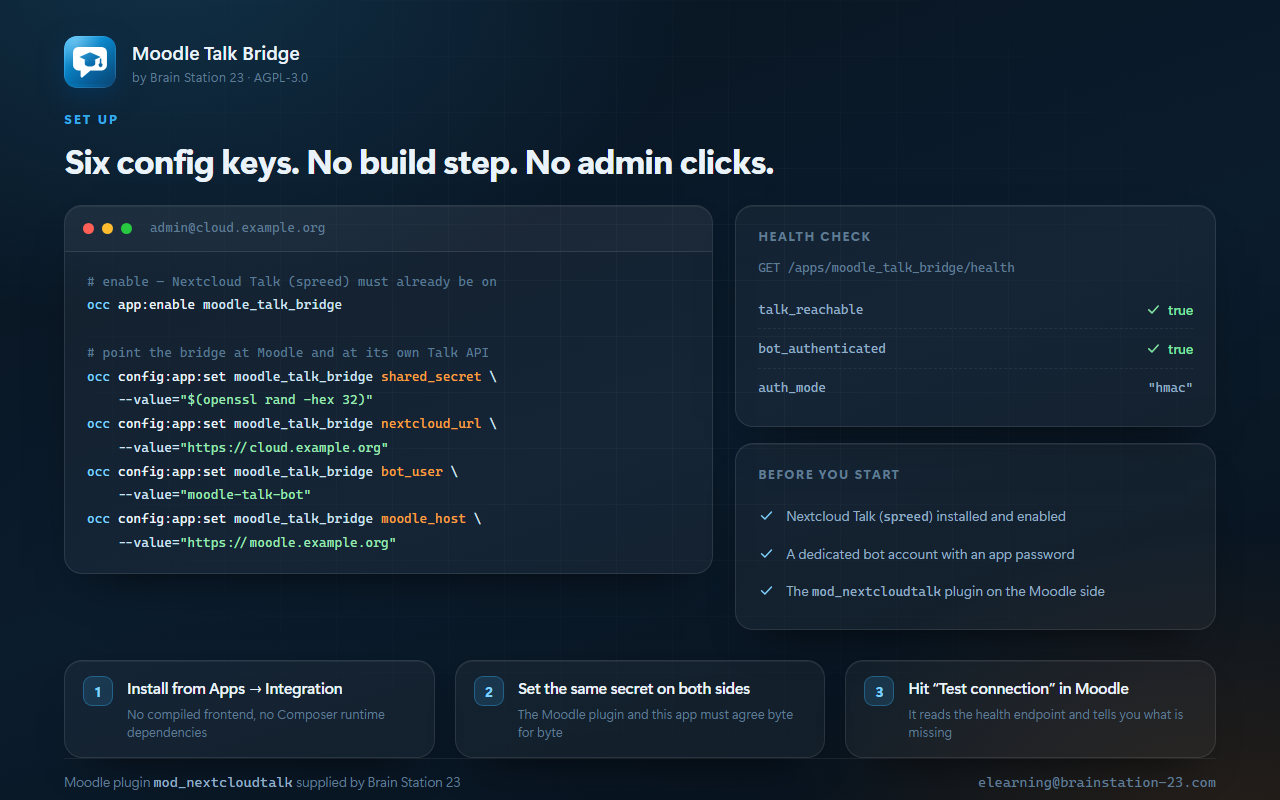
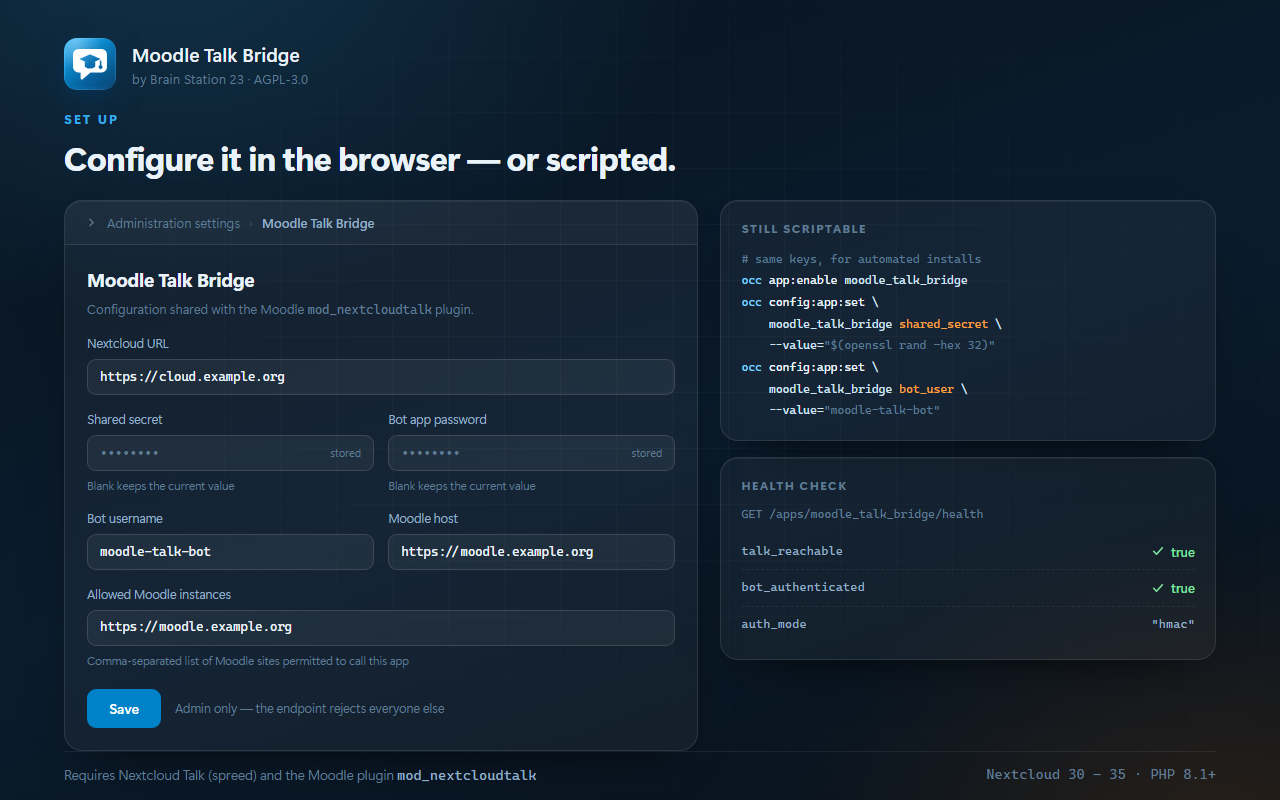
Fix the admin settings panel and cut release 1.0.2
The configuration UI added in 50e10bb could not be reached or opened.
Two independent defects, each fatal on its own, found by probing
Nextcloud's settings manager on 31.0.14.

`appinfo/info.xml` registered `OCA\MoodleTalkBridge\Settings\AdminSection`,
but the class was never written. `AdminSettings::getSection()` returns
`moodle_talk_bridge`, so the form registered against a section id that did
not exist and had no navigation entry to render under. A controlled A/B
run on the same server, with and without the class present:

    without  ->  section NOT registered, form orphaned
    with     ->  SECTION ok: id=moodle_talk_bridge prio=75, form attached

`getAdminSections()` drops an unresolvable section silently, writing
nothing to nextcloud.log, which is why this was not caught earlier.

`templates/admin.php` then resolved `OCP\Security\CSRF\CsrfTokenManager`
out of the container. That class exists in no Nextcloud version — there
is no `OCP\Security\CSRF` namespace at all, the manager is private under
`OC\Security\CSRF` — so rendering the form threw QueryNotFoundException.
Use the `requesttoken` value that `OC\Template\Base` already assigns to
every template instead, which needs no container lookup at all.

Both endpoints were checked rather than assumed. `settings#save` carries
neither NoAdminRequired nor SubAdminRequired, and SecurityMiddleware
treats that as admin-only, so the endpoint that writes `shared_secret`
[…]

diff --git a/lib/Settings/AdminSection.php b/lib/Settings/AdminSection.php
@@ -1,0 +1,32 @@
+<?php
+declare(strict_types=1);
+
+namespace OCA\MoodleTalkBridge\Settings;
+
+use OCP\IL10N;
+use OCP\IURLGenerator;
+use OCP\Settings\IIconSection;
+
+class AdminSection implements IIconSection {
+    public function __construct(
+        private IL10N $l,
+        private IURLGenerator $urlGenerator,
+    ) {
+    }
+
+    public function getID(): string {
+        return 'moodle_talk_bridge'; // Must match AdminSettings::getSection()
+    }
+
+    public function getName(): string {
+        return $this->l->t('Moodle Talk Bridge');
+    }
+
+    public function getPriority(): int {
+        return 75;
+    }
+
+    public function getIcon(): string {
+        return $this->urlGenerator->imagePath('moodle_talk_bridge', 'app.svg');
+    }
+}

diff --git a/templates/admin.php b/templates/admin.php
@@ -4,8 +4,7 @@
 
     <form id="mtb-settings-form" method="post"
           action="<?php p(\OC::$server->getURLGenerator()->linkToRoute('moodle_talk_bridge.settings.save')); ?>">
-        <input type="hidden" name="requesttoken"
-               value="<?php p(\OC::$server->get(\OCP\Security\CSRF\CsrfTokenManager::class)->getToken()->getEncryptedValue()); ?>">
+        <input type="hidden" name="requesttoken" value="<?php p($_['requesttoken']); ?>">
 
         <p>
             <label for="mtb-nextcloud-url">Nextcloud URL</label><br>

diff --git a/CHANGELOG.md b/CHANGELOG.md
@@ -5,6 +5,33 @@ All notable changes to this project are documented in this file.
 The format is based on [Keep a Changelog](https://keepachangelog.com/en/1.1.0/),
 and this project adheres to [Semantic Versioning](https://semver.org/spec/v2.0.0.html).
 
+## [1.0.2] - 2026-08-24
+
+### Added
+
+- Admin configuration panel at **Administration settings → Moodle Talk Bridge**.
+  All six keys are editable in the browser; the two secrets are write-only and
+  render as placeholders, so leaving a secret field blank keeps the stored
+  value. Every key can still be applied with `occ` for scripted installs.
+
+### Fixed
+
+- The admin panel was unreachable as first merged. `appinfo/info.xml` declared
+  `OCA\MoodleTalkBridge\Settings\AdminSection`, but the class did not exist, so
+  the section never registered and the form — which targets that section id —
+  had no navigation entry to render under. `getAdminSections()` silently
+  omitted it, with nothing written to the log. Added the missing class.
+- Opening the panel threw `QueryNotFoundException`. `templates/admin.php`
+  resolved `OCP\Security\CSRF\CsrfTokenManager`, which does not exist in any
+  Nextcloud version — the class lives in the private `OC\Security\CSRF`
+  namespace. The template now uses the `requesttoken` value that
+  `OC\Template\Base` already assigns, which needs no container lookup.
+
+### Changed
+
+- The setup screenshot and the `info.xml` and `README.md` configuration
+  sections no longer state that there is no admin UI.
+
 ## [1.0.1] - 2026-08-24
 
 ### Fixed
@@ -50,5 +77,6 @@ First public release.
   the "Test connection" button in the Moodle plugin.
 - Replay protection via a nonce table and a webhook event de-duplication table.
 
+[1.0.2]: https://github.com/eLearning-BS23/moodle_talk_bridge/releases/tag/v1.0.2
 [1.0.1]: https://github.com/eLearning-BS23/moodle_talk_bridge/releases/tag/v1.0.1
 [1.0.0]: https://github.com/eLearning-BS23/moodle_talk_bridge/releases/tag/v1.0.0

diff --git a/README.md b/README.md
@@ -68,7 +68,12 @@ no runtime Composer dependencies.
 
 ## Configuration
 
-There is no admin UI yet; configuration is applied with `occ`.
+Set everything from **Administration settings → Moodle Talk Bridge**. The two
+secrets are write-only in the panel: they render as placeholders, and leaving a
+secret field blank keeps the stored value.
+
+Every key can also be applied with `occ`, which is the better route for scripted
+or automated installs.
 
 ```bash
 occ config:app:set moodle_talk_bridge shared_secret     --value="<32-byte hex>"
